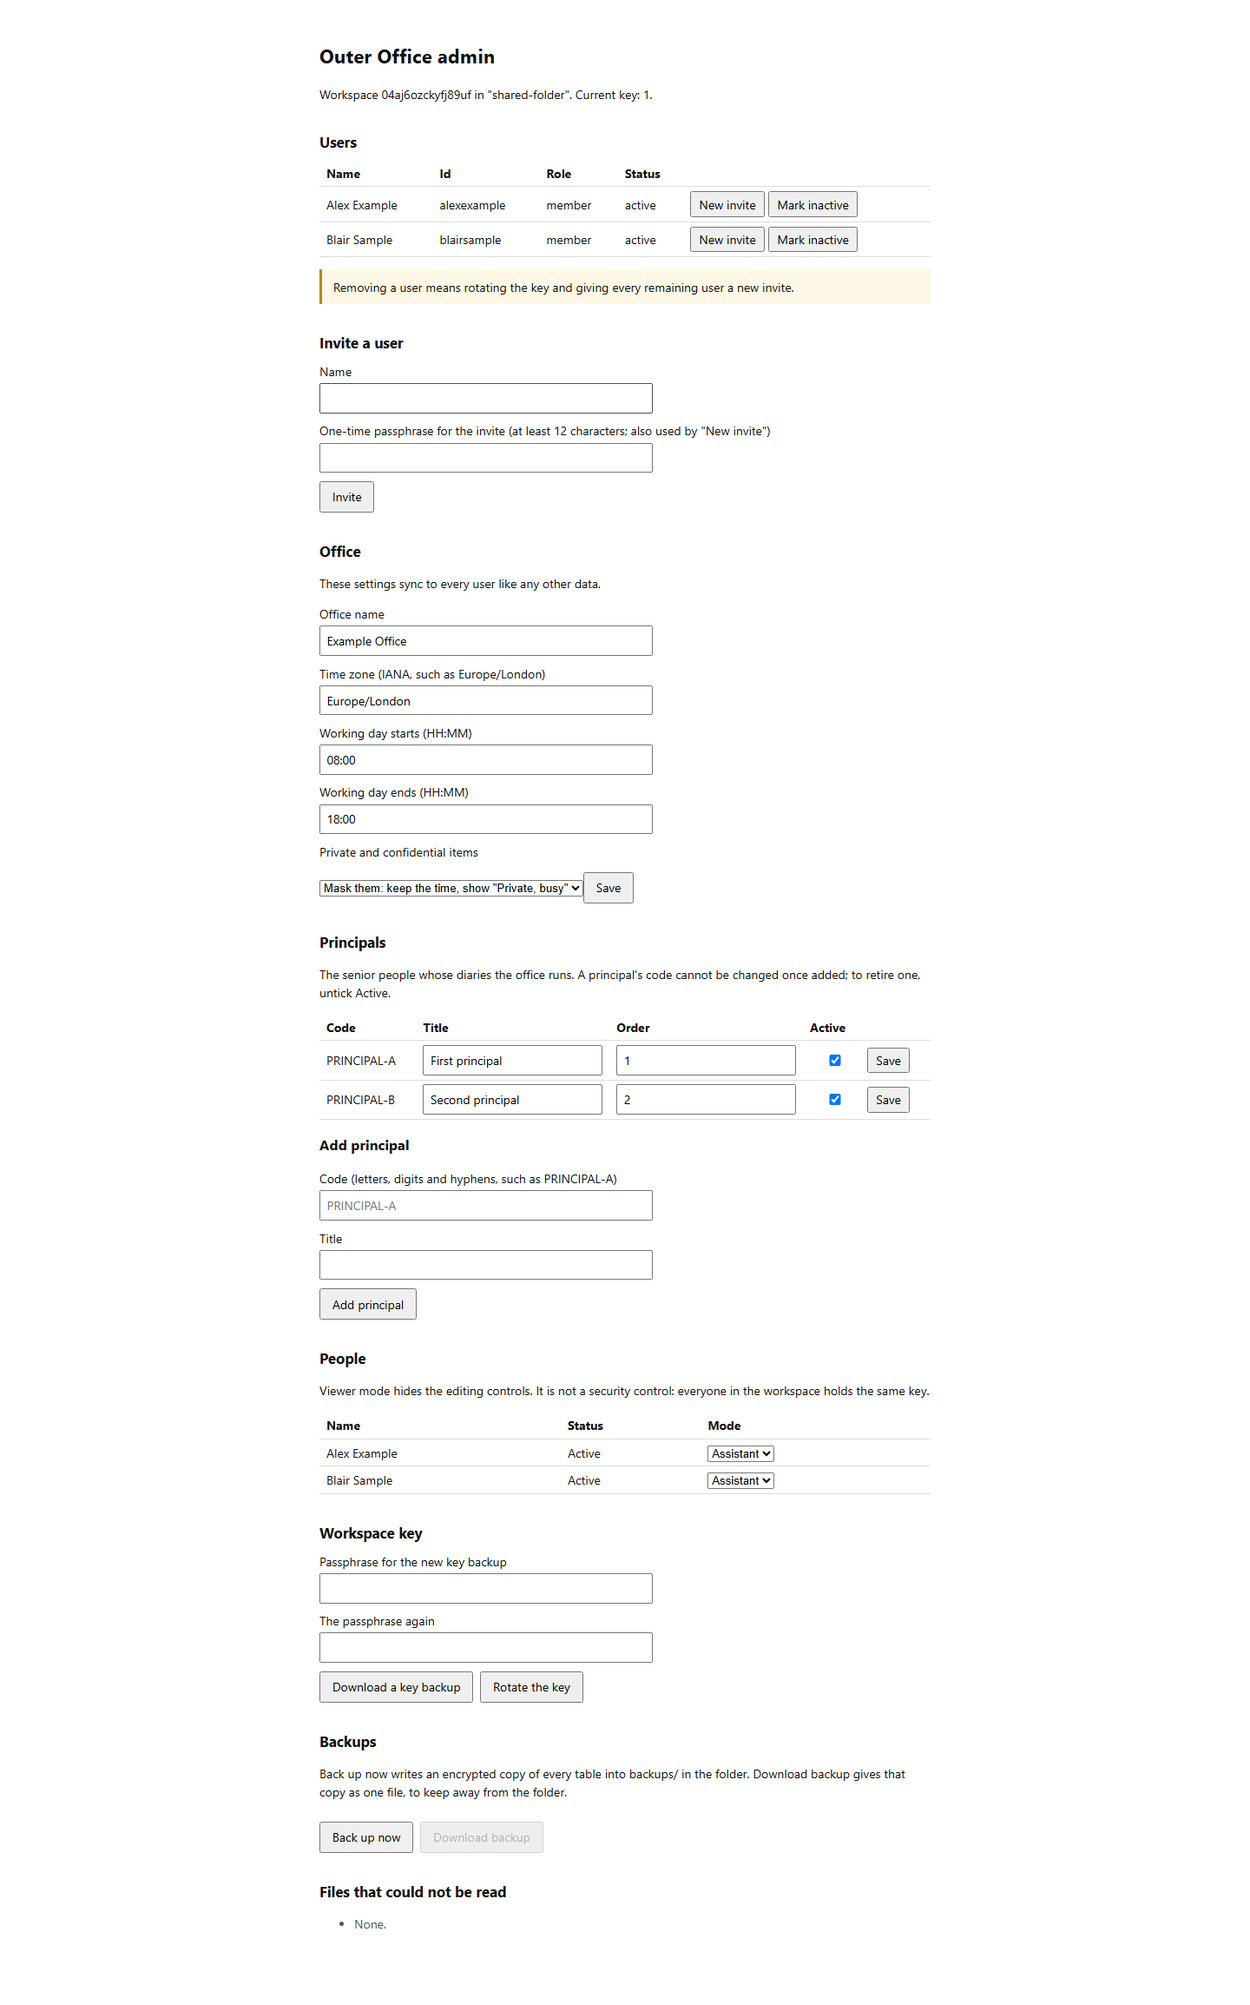
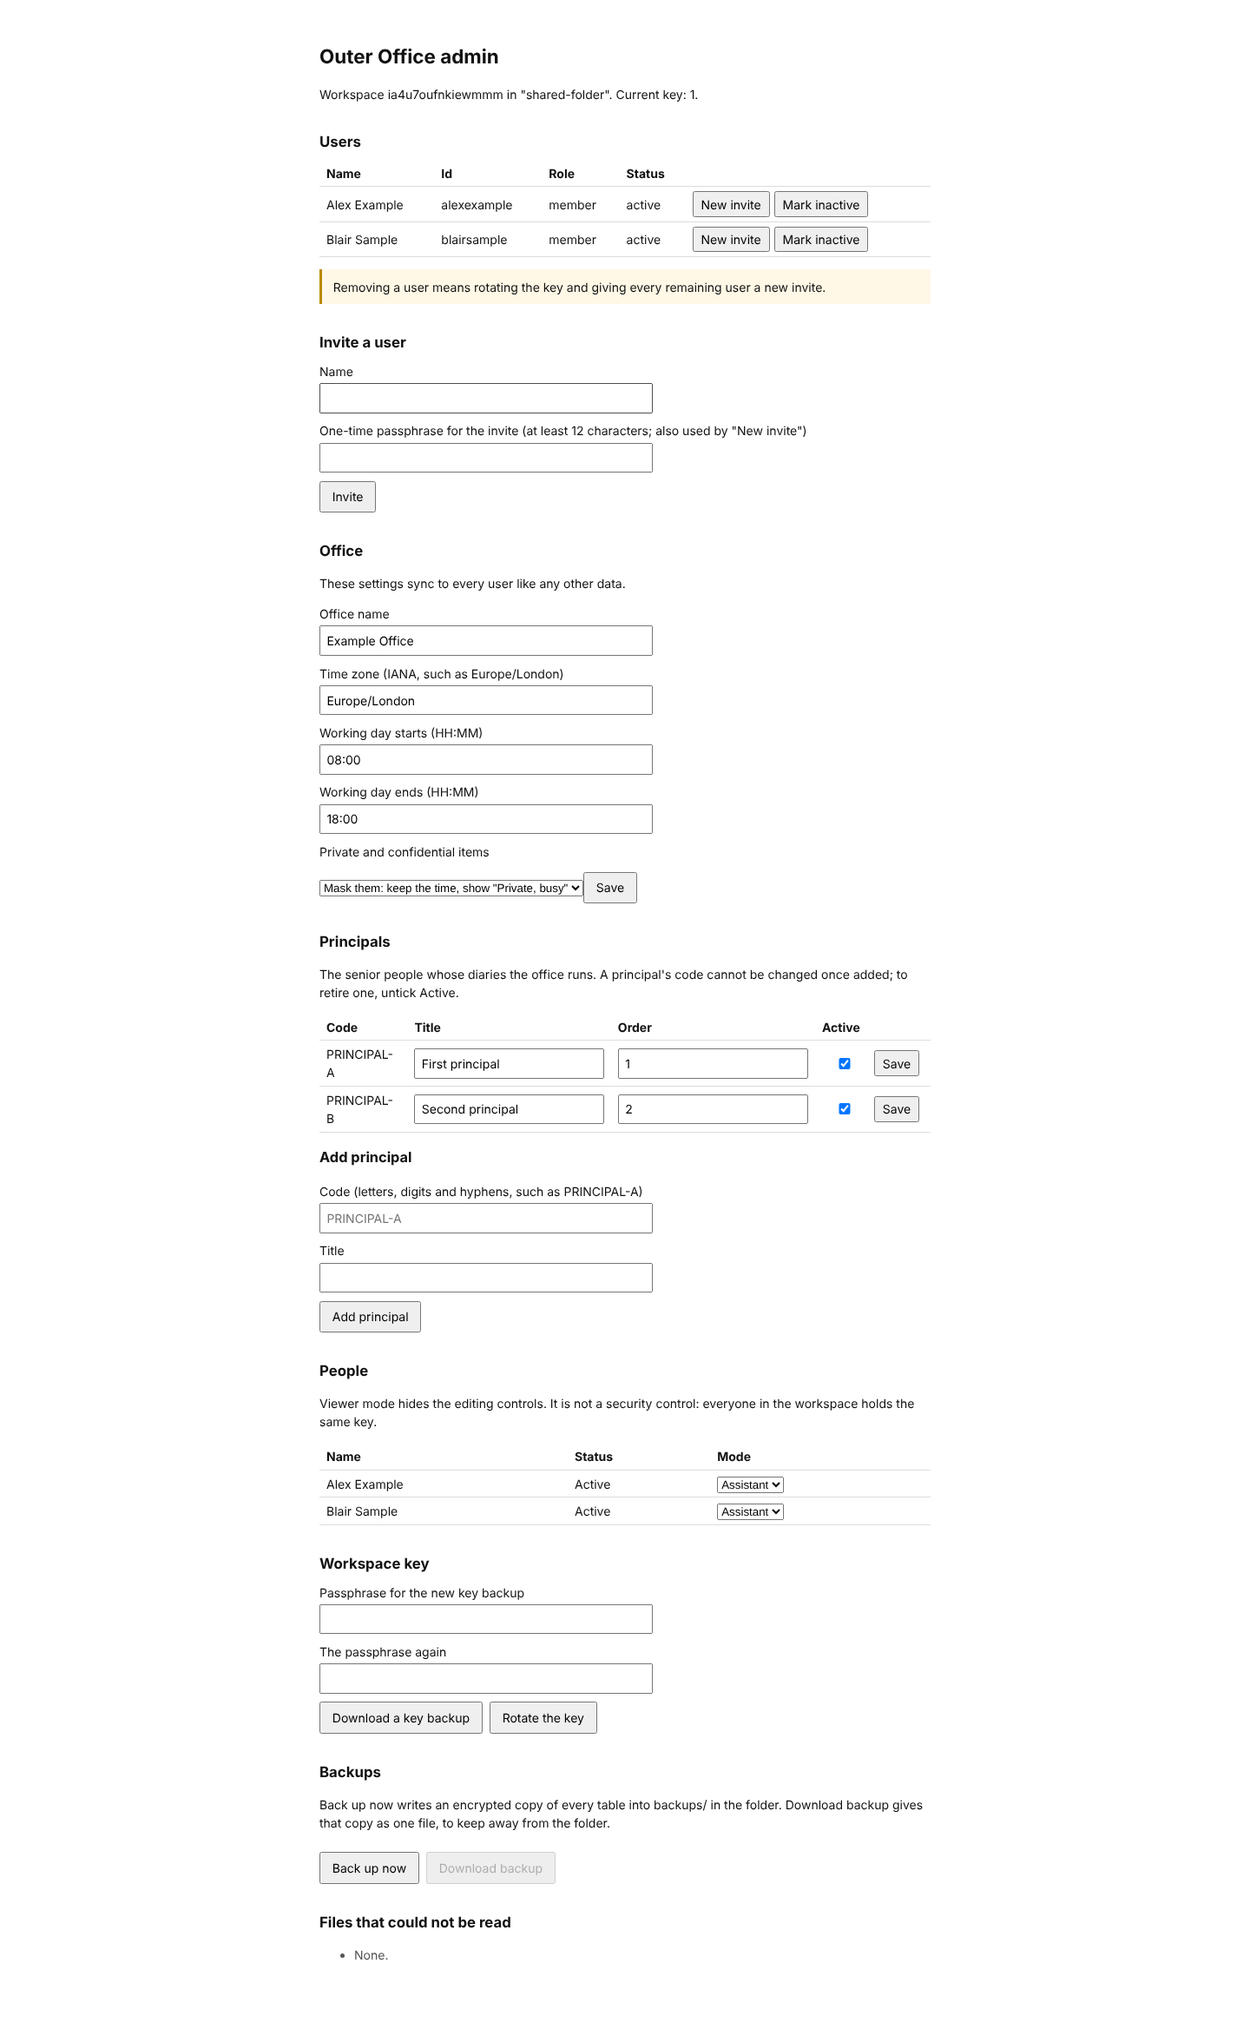
fix: two-users e2e uses the flag and Notes tab now prep is cards; tabs and fields in Agentic style
Prep was replaced by cards (OUT-62), so step 4 flags the meeting instead and the
Log looks for 'Flag changed'. Tabs become the Agentic switch (ink text on a
surface pill, the chosen option an ink pill), which also clears the colour
contrast failure on inactive tabs. Fields take the Agentic field look.

Claude-Session: https://claude.ai/code/session_01WJNQkb2c4iQV3VtkDXsrHY

Changed region(s): [[0.25, 0.0, 0.75, 0.9671]]

diff --git a/framework/build/test/two-users.js b/framework/build/test/two-users.js
@@ -13,7 +13,7 @@
 //   2. A and B enrol from their invites; both show the principal switch with both
 //   3. A imports a synthetic .ics for PRINCIPAL-A; B shows the same events for
 //      PRINCIPAL-A and none for PRINCIPAL-B
-//   4. B sets an engagement's prep to needed and writes a note; A sees the mark
+//   4. B flags an engagement and writes a note; A sees the mark
 //      on the calendar and the note in the panel
 //   5. A creates the shared project and adds tasks with quick add, one tagged to
 //      PRINCIPAL-A, assigned to B and due today; B finds it in Today as offered
@@ -24,7 +24,7 @@
 //   7. A imports a second .ics where the annotated event moved and another is
 //      missing; the review lists them as moved and gone; B shows the move, not
 //      the gone event, and the note is still on the moved engagement
-//   8. the Log for PRINCIPAL-A lists the import, the prep change and the task
+//   8. the Log for PRINCIPAL-A lists the import, the flag change and the task
 //      changes on both pages, with people's names
 //   9. both pages show the same events, overlay and tasks
 //
@@ -140,22 +140,22 @@ async function firstImport(A, B, files) {
   await a11y.scan(A.page, "Calendar");
 }
 
-/** Step 4: B sets prep to needed and writes a note; A sees both. */
-async function prepAndNote(A, B) {
-  const panel = await app.openEngagement(B, SUBJECTS.budget);
-  await panel.getByRole("combobox", { name: "Prep", exact: true }).click();
-  await B.page.getByRole("option", { name: "Needed" }).click();
-  await panel.getByLabel("Notes").fill(NOTE);
-  await panel.getByLabel("Notes").blur();
+/** Step 4: B flags the meeting and writes a note; A sees both. (Prep was replaced by cards, OUT-62.) */
+async function flagAndNote(A, B) {
+  const panel = await app.openEngagement(B, SUBJECTS.budget, "Overview");
+  await panel.getByRole("switch", { name: "Flag" }).click();
+  await panel.getByRole("tab", { name: "Notes" }).click();
+  await panel.getByRole("textbox", { name: "Notes" }).fill(NOTE);
+  await panel.getByRole("textbox", { name: "Notes" }).blur();
   await B.page.waitForTimeout(200);
   await app.closeDialog(B);
   await save(B);
-  const marked = await readUntil(A, app.calendarShows, (v) => app.eventTitled(v, SUBJECTS.budget)?.marks.includes("Prep needed"));
-  check("4. A shows B's prep mark on the calendar", marked, json(app.eventTitled(await app.calendarShows(A), SUBJECTS.budget)));
+  const marked = await readUntil(A, app.calendarShows, (v) => app.eventTitled(v, SUBJECTS.budget)?.marks.includes("Flagged"));
+  check("4. A shows B's flag on the calendar", marked, json(app.eventTitled(await app.calendarShows(A), SUBJECTS.budget)));
   const onA = await app.engagementShows(A, SUBJECTS.budget);
-  check("4. A shows B's note in the engagement panel", onA.prep === "Needed" && onA.notes === NOTE, json(onA));
+  check("4. A shows B's note in the engagement panel", onA.flagged && onA.notes === NOTE, json(onA));
   await app.openEngagement(A, SUBJECTS.budget);
-  await a11y.scan(A.page, "engagement panel (Prep tab)");
+  await a11y.scan(A.page, "engagement panel (Notes tab)");
   await shot(A, "engagement.png");
   await app.closeDialog(A);
 }
@@ -252,7 +252,7 @@ async function secondImport(A, B, files) {
   const ok = await readUntil(B, app.calendarShows, shows);
   check("7. B shows the meeting on its new day and the gone event off the calendar", ok, json(await app.calendarShows(B)));
   const marks = app.eventTitled(await app.calendarShows(B), SUBJECTS.budget)?.marks ?? [];
-  check("7. B: the moved meeting keeps its prep mark and is marked moved", json(marks) === json(["Prep needed", "Moved"]), json(marks));
+  check("7. B: the moved meeting keeps its flag and is marked moved", json(marks) === json(["Flagged", "Moved"]), json(marks));
   const onB = await app.engagementShows(B, SUBJECTS.budget);
   check("7. B: the note is still on the moved engagement", onB.notes === NOTE && onB.when.includes("14:00"), json(onB));
   await shot(B, "calendar.png");
@@ -264,9 +264,9 @@ async function log(A, B) {
     await app.go(u, "Log");
     const rows = await app.logRows(u);
     const has = (who, area, what) => rows.some((r) => r[1] === who && r[2] === area && r[3] === what);
-    const wanted = [[ALEX, "Import", "Import applied"], [BLAIR, "Overlay", "Prep changed"], [ALEX, "Task", "Created"], [BLAIR, "Task", "Accepted"]];
+    const wanted = [[ALEX, "Import", "Import applied"], [BLAIR, "Overlay", "Flag changed"], [ALEX, "Task", "Created"], [BLAIR, "Task", "Accepted"]];
     const missing = wanted.filter((w) => !has(...w));
-    check(`8. ${u.label}: the Log lists the import, the prep change and the task changes, by name`, missing.length === 0, `missing ${json(missing)} in ${json(rows.map((r) => r.slice(1, 5)))}`);
+    check(`8. ${u.label}: the Log lists the import, the flag change and the task changes, by name`, missing.length === 0, `missing ${json(missing)} in ${json(rows.map((r) => r.slice(1, 5)))}`);
     const ids = rows.filter((r) => r.some((c) => /^(alexexample|blairsample|admin)$/.test(c)));
     check(`8. ${u.label}: no Log row shows a user id`, ids.length === 0, json(ids));
   }
@@ -315,7 +315,7 @@ try {
   }
 
   await firstImport(A, B, files);
-  await prepAndNote(A, B);
+  await flagAndNote(A, B);
   await tasks(A, B, days);
   await conflict(A, B, folder);
   await secondImport(A, B, files);

diff --git a/app/src/components/ui/tabs.tsx b/app/src/components/ui/tabs.tsx
@@ -21,11 +21,11 @@ function Tabs({
 }
 
 const tabsListVariants = cva(
-  "group/tabs-list inline-flex w-fit items-center justify-center rounded-lg p-[3px] text-muted-foreground group-data-horizontal/tabs:h-8 group-data-vertical/tabs:h-fit group-data-vertical/tabs:flex-col data-[variant=line]:rounded-none",
+  "group/tabs-list inline-flex w-fit items-center justify-center rounded-full p-[3px] text-foreground group-data-horizontal/tabs:h-8 group-data-vertical/tabs:h-fit group-data-vertical/tabs:flex-col data-[variant=line]:rounded-none",
   {
     variants: {
       variant: {
-        default: "bg-muted",
+        default: "bg-card shadow-[inset_0_0_0_1px_var(--ag-line)]",
         line: "gap-1 bg-transparent",
       },
     },
@@ -55,9 +55,9 @@ function TabsTrigger({ className, ...props }: TabsPrimitive.Tab.Props) {
     <TabsPrimitive.Tab
       data-slot="tabs-trigger"
       className={cn(
-        "relative inline-flex h-[calc(100%-1px)] flex-1 items-center justify-center gap-1.5 rounded-md border border-transparent px-1.5 py-0.5 text-sm font-medium whitespace-nowrap text-foreground/60 transition-all group-data-vertical/tabs:w-full group-data-vertical/tabs:justify-start hover:text-foreground focus-visible:border-ring focus-visible:ring-[3px] focus-visible:ring-ring/50 focus-visible:outline-1 focus-visible:outline-ring disabled:pointer-events-none disabled:opacity-50 has-data-[icon=inline-end]:pr-1 has-data-[icon=inline-start]:pl-1 aria-disabled:pointer-events-none aria-disabled:opacity-50 dark:text-muted-foreground dark:hover:text-foreground group-data-[variant=default]/tabs-list:data-active:shadow-sm group-data-[variant=line]/tabs-list:data-active:shadow-none [&_svg]:pointer-events-none [&_svg]:shrink-0 [&_svg:not([class*='size-'])]:size-4",
+        "relative inline-flex h-[calc(100%-1px)] flex-1 items-center justify-center gap-1.5 rounded-full border border-transparent px-3 py-0.5 text-sm font-medium whitespace-nowrap text-foreground transition-[background-color,color] duration-(--ag-dur) ease-ag group-data-vertical/tabs:w-full group-data-vertical/tabs:justify-start hover:text-muted-foreground data-active:hover:text-background focus-visible:border-ring focus-visible:ring-[3px] focus-visible:ring-ring/50 focus-visible:outline-1 focus-visible:outline-ring disabled:pointer-events-none disabled:opacity-50 has-data-[icon=inline-end]:pr-1 has-data-[icon=inline-start]:pl-1 aria-disabled:pointer-events-none aria-disabled:opacity-50 group-data-[variant=default]/tabs-list:data-active:shadow-none group-data-[variant=line]/tabs-list:data-active:shadow-none [&_svg]:pointer-events-none [&_svg]:shrink-0 [&_svg:not([class*='size-'])]:size-4",
         "group-data-[variant=line]/tabs-list:bg-transparent group-data-[variant=line]/tabs-list:data-active:bg-transparent dark:group-data-[variant=line]/tabs-list:data-active:border-transparent dark:group-data-[variant=line]/tabs-list:data-active:bg-transparent",
-        "data-active:bg-background data-active:text-foreground dark:data-active:border-input dark:data-active:bg-input/30 dark:data-active:text-foreground",
+        "group-data-[variant=default]/tabs-list:data-active:bg-foreground group-data-[variant=default]/tabs-list:data-active:text-background",
         "after:absolute after:bg-foreground after:opacity-0 after:transition-opacity group-data-horizontal/tabs:after:inset-x-0 group-data-horizontal/tabs:after:bottom-[-5px] group-data-horizontal/tabs:after:h-0.5 group-data-vertical/tabs:after:inset-y-0 group-data-vertical/tabs:after:-right-1 group-data-vertical/tabs:after:w-0.5 group-data-[variant=line]/tabs-list:data-active:after:opacity-100",
         className
       )}

diff --git a/app/src/components/ui/button.tsx b/app/src/components/ui/button.tsx
@@ -3,15 +3,15 @@ import { cva, type VariantProps } from "class-variance-authority"
 import { cn } from "cn"
 
 const buttonVariants = cva(
-  "group/button relative isolate inline-flex shrink-0 items-center justify-center overflow-hidden rounded-full border border-transparent bg-clip-padding text-sm font-medium whitespace-nowrap transition-[color,background-color,border-color,transform] duration-(--ag-dur) ease-ag outline-none select-none focus-visible:border-ring focus-visible:ring-3 focus-visible:ring-ring/50 active:not-aria-[haspopup]:translate-y-px disabled:pointer-events-none disabled:opacity-50 aria-invalid:border-destructive aria-invalid:ring-3 aria-invalid:ring-destructive/20 dark:aria-invalid:border-destructive/50 dark:aria-invalid:ring-destructive/40 [&_svg]:pointer-events-none [&_svg]:shrink-0 [&_svg:not([class*='size-'])]:size-4",
+  "group/button relative isolate inline-flex shrink-0 items-center justify-center overflow-hidden rounded-full border border-transparent bg-clip-padding text-sm font-medium whitespace-nowrap transition-[color,background-color,border-color,transform] duration-(--ag-dur) ease-ag outline-none select-none focus-visible:outline-2 focus-visible:outline-offset-3 focus-visible:outline-foreground active:not-aria-[haspopup]:translate-y-px disabled:pointer-events-none disabled:opacity-50 aria-invalid:border-destructive aria-invalid:ring-3 aria-invalid:ring-destructive/20 dark:aria-invalid:border-destructive/50 dark:aria-invalid:ring-destructive/40 [&_svg]:pointer-events-none [&_svg]:shrink-0 [&_svg:not([class*='size-'])]:size-4",
   {
     variants: {
       variant: {
         // Agentic: the lime dot scales up to flood the pill on hover.
         default:
-          "bg-primary pr-5 text-primary-foreground before:absolute before:top-1/2 before:right-2.5 before:-z-10 before:size-1.5 before:-translate-y-1/2 before:rounded-full before:bg-ag-accent before:transition-transform before:duration-(--ag-dur-open) before:ease-ag hover:text-[#0D0C0B] hover:before:scale-[90] motion-reduce:before:transition-none",
+          "bg-primary text-primary-foreground pr-7 after:absolute after:top-1/2 after:right-3 after:-z-10 after:-mt-1 after:size-2 after:rounded-full after:bg-ag-accent after:transition-transform after:duration-(--ag-dur-open) after:ease-ag hover:text-[#0D0C0B] hover:after:scale-[90] motion-reduce:after:transition-none",
         outline:
-          "border-border bg-background hover:bg-muted hover:text-foreground aria-expanded:bg-muted aria-expanded:text-foreground dark:border-input dark:bg-input/30 dark:hover:bg-input/50",
+          "border-border bg-transparent hover:bg-foreground hover:text-background aria-expanded:bg-foreground aria-expanded:text-background",
         secondary:
           "bg-secondary text-secondary-foreground hover:bg-[color-mix(in_oklch,var(--secondary),var(--foreground)_5%)] aria-expanded:bg-secondary aria-expanded:text-secondary-foreground",
         ghost:

diff --git a/framework/build/test/two-users-app.js b/framework/build/test/two-users-app.js
@@ -108,21 +108,20 @@ export const calendarShows = (u) =>
 export const titles = (events) => events.map((e) => e.title).join(" | ");
 export const eventTitled = (events, title) => events.find((e) => e.title === title);
 
-/** Opens an event's engagement panel from the calendar, on the Prep tab. */
-export async function openEngagement(u, title) {
+/** Opens an event's engagement panel from the calendar, on `tab` (Overview holds the flag, Notes the notes). */
+export async function openEngagement(u, title, tab = "Notes") {
   await u.page.locator("[data-event-face]").filter({ hasText: title }).first().click();
-  await dialog(u).getByRole("tab", { name: "Prep" }).click();
+  await dialog(u).getByRole("tab", { name: tab }).click();
   return dialog(u);
 }
 
-/** What the engagement panel shows: when, the prep state and the notes. Closes it again. */
+/** What the engagement panel shows: when, the flag and the notes. Closes it again. */
 export async function engagementShows(u, title) {
-  const panel = await openEngagement(u, title);
-  const shown = {
-    when: await panel.locator("[data-slot=sheet-description]").first().textContent().catch(() => ""),
-    prep: (await panel.getByRole("combobox", { name: "Prep", exact: true }).locator("[data-slot=select-value]").textContent()).trim(),
-    notes: await panel.getByLabel("Notes").inputValue(),
-  };
+  const panel = await openEngagement(u, title, "Overview");
+  const when = await panel.locator("[data-slot=sheet-description]").first().textContent().catch(() => "");
+  const flagged = (await panel.getByRole("switch", { name: "Flag" }).getAttribute("aria-checked")) === "true";
+  await panel.getByRole("tab", { name: "Notes" }).click();
+  const shown = { when, flagged, notes: await panel.getByRole("textbox", { name: "Notes" }).inputValue() };
   await closeDialog(u);
   return shown;
 }

diff --git a/app/src/components/ui/input.tsx b/app/src/components/ui/input.tsx
@@ -8,7 +8,7 @@ function Input({ className, type, ...props }: React.ComponentProps<"input">) {
       type={type}
       data-slot="input"
       className={cn(
-        "h-8 w-full min-w-0 rounded-lg border border-input bg-transparent px-2.5 py-1 text-base transition-colors outline-none file:inline-flex file:h-6 file:border-0 file:bg-transparent file:text-sm file:font-medium file:text-foreground placeholder:text-muted-foreground focus-visible:border-ring focus-visible:ring-3 focus-visible:ring-ring/50 disabled:pointer-events-none disabled:cursor-not-allowed disabled:bg-input/50 disabled:opacity-50 aria-invalid:border-destructive aria-invalid:ring-3 aria-invalid:ring-destructive/20 md:text-sm dark:bg-input/30 dark:disabled:bg-input/80 dark:aria-invalid:border-destructive/50 dark:aria-invalid:ring-destructive/40",
+        "h-8 w-full min-w-0 rounded-(--ag-r-sm) border border-transparent bg-[color-mix(in_oklab,var(--ag-ink)_5%,var(--ag-surface))] px-2.5 py-1 text-base transition-colors outline-none file:inline-flex file:h-6 file:border-0 file:bg-transparent file:text-sm file:font-medium file:text-foreground placeholder:text-muted-foreground focus-visible:outline-none focus-visible:shadow-[inset_0_0_0_1.5px_var(--ag-ink)] disabled:pointer-events-none disabled:cursor-not-allowed disabled:bg-input/50 disabled:opacity-50 aria-invalid:border-destructive aria-invalid:ring-3 aria-invalid:ring-destructive/20 md:text-sm dark:disabled:bg-input/80 dark:aria-invalid:border-destructive/50 dark:aria-invalid:ring-destructive/40",
         className
       )}
       {...props}

diff --git a/app/src/components/ui/textarea.tsx b/app/src/components/ui/textarea.tsx
@@ -6,7 +6,7 @@ function Textarea({ className, ...props }: React.ComponentProps<"textarea">) {
     <textarea
       data-slot="textarea"
       className={cn(
-        "flex field-sizing-content min-h-16 w-full rounded-lg border border-input bg-transparent px-2.5 py-2 text-base transition-colors outline-none placeholder:text-muted-foreground focus-visible:border-ring focus-visible:ring-3 focus-visible:ring-ring/50 disabled:cursor-not-allowed disabled:bg-input/50 disabled:opacity-50 aria-invalid:border-destructive aria-invalid:ring-3 aria-invalid:ring-destructive/20 md:text-sm dark:bg-input/30 dark:disabled:bg-input/80 dark:aria-invalid:border-destructive/50 dark:aria-invalid:ring-destructive/40",
+        "flex field-sizing-content min-h-16 w-full rounded-(--ag-r-sm) border border-transparent bg-[color-mix(in_oklab,var(--ag-ink)_5%,var(--ag-surface))] px-2.5 py-2 text-base transition-colors outline-none placeholder:text-muted-foreground focus-visible:outline-none focus-visible:shadow-[inset_0_0_0_1.5px_var(--ag-ink)] disabled:cursor-not-allowed disabled:bg-input/50 disabled:opacity-50 aria-invalid:border-destructive aria-invalid:ring-3 aria-invalid:ring-destructive/20 md:text-sm dark:disabled:bg-input/80 dark:aria-invalid:border-destructive/50 dark:aria-invalid:ring-destructive/40",
         className
       )}
       {...props}

diff --git a/app/src/screens/calendar/event-face.tsx b/app/src/screens/calendar/event-face.tsx
@@ -29,7 +29,7 @@ export function EventFaceView({ face, shapes = [], time }: EventFaceViewProps) {
           </span>
         )}
       </span>
-      {time && <span className="truncate text-[0.6875rem] tabular-nums text-foreground/60">{time}</span>}
+      {time && <span className="truncate text-[0.6875rem] tabular-nums text-foreground/75">{time}</span>}
       {face.marks.length > 0 && (
         <span className="flex flex-wrap gap-1">
           {face.marks.map((mark) => (

diff --git a/app/src/index.css b/app/src/index.css
@@ -75,7 +75,8 @@
     --secondary: var(--ag-shade);
     --secondary-foreground: var(--ag-ink);
     --muted: var(--ag-shade);
-    --muted-foreground: var(--ag-muted);
+    /* --ag-muted (54%) is 4.4:1 on --ag-shade, under AA for tab labels on it; 60% passes. */
+    --muted-foreground: color-mix(in oklab, var(--ag-ink) 60%, var(--ag-bg));
     --accent: var(--ag-shade);
     --accent-foreground: var(--ag-ink);
     --destructive: var(--ag-ember);
